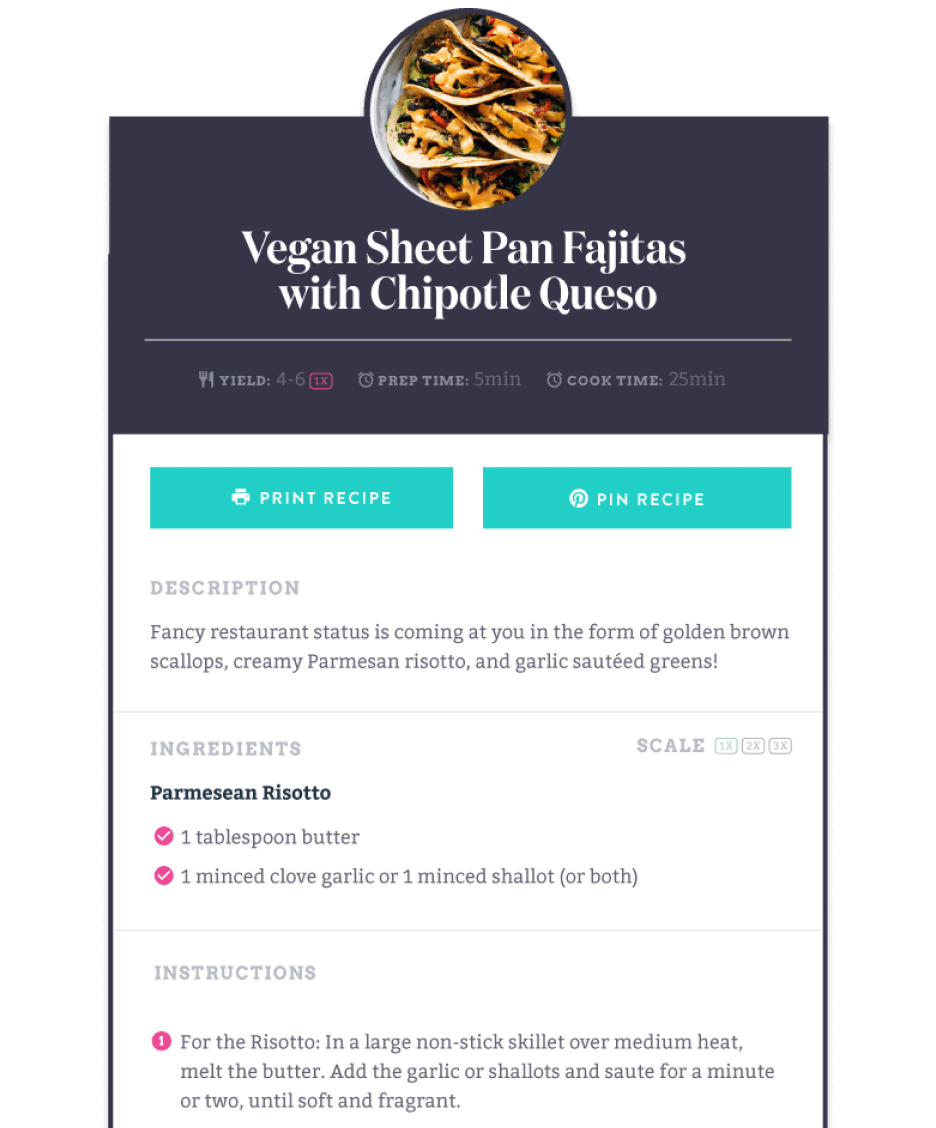
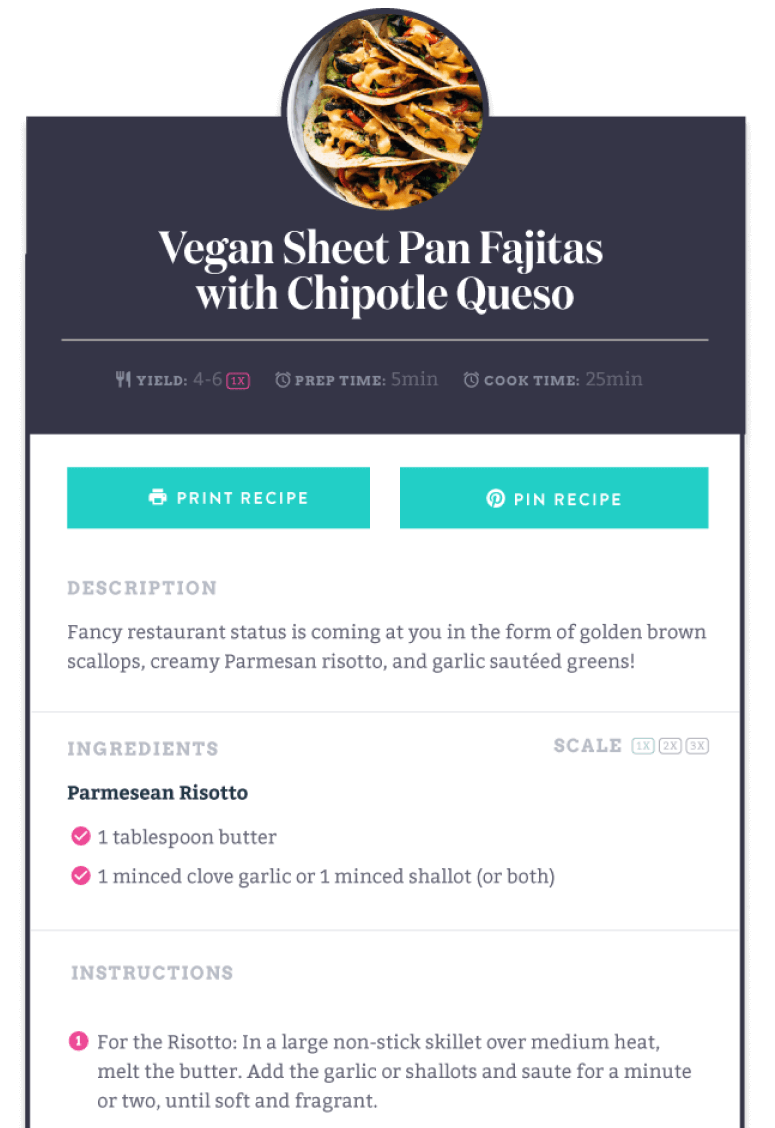
Remove more of the Easy Recipe template Crop the preview images Don't show shadow border around template image preview

diff --git a/assets/settings/views/Design.vue b/assets/settings/views/Design.vue
@@ -49,7 +49,9 @@
 				/>
 			</div>
 			<iframe
-				class="tasty-shadow-lg"
+				:class="{
+					'tasty-shadow-lg': ! isLocked
+				}"
 				width="600"
 				:height="iframeHeight"
 				ref="previewIframe"

diff --git a/inc/class-shortcodes.php b/inc/class-shortcodes.php
@@ -939,7 +939,6 @@ class Shortcodes {
 				'value' => '<span data-tasty-recipes-customization="body-color.color" class="' . esc_attr( 'tasty-recipes-' . str_replace( '_', '-', $attribute ) ) . '">' .
 					$recipe_json[ $attribute ] . '</span>',
 			);
-
 		}
 	}
 
